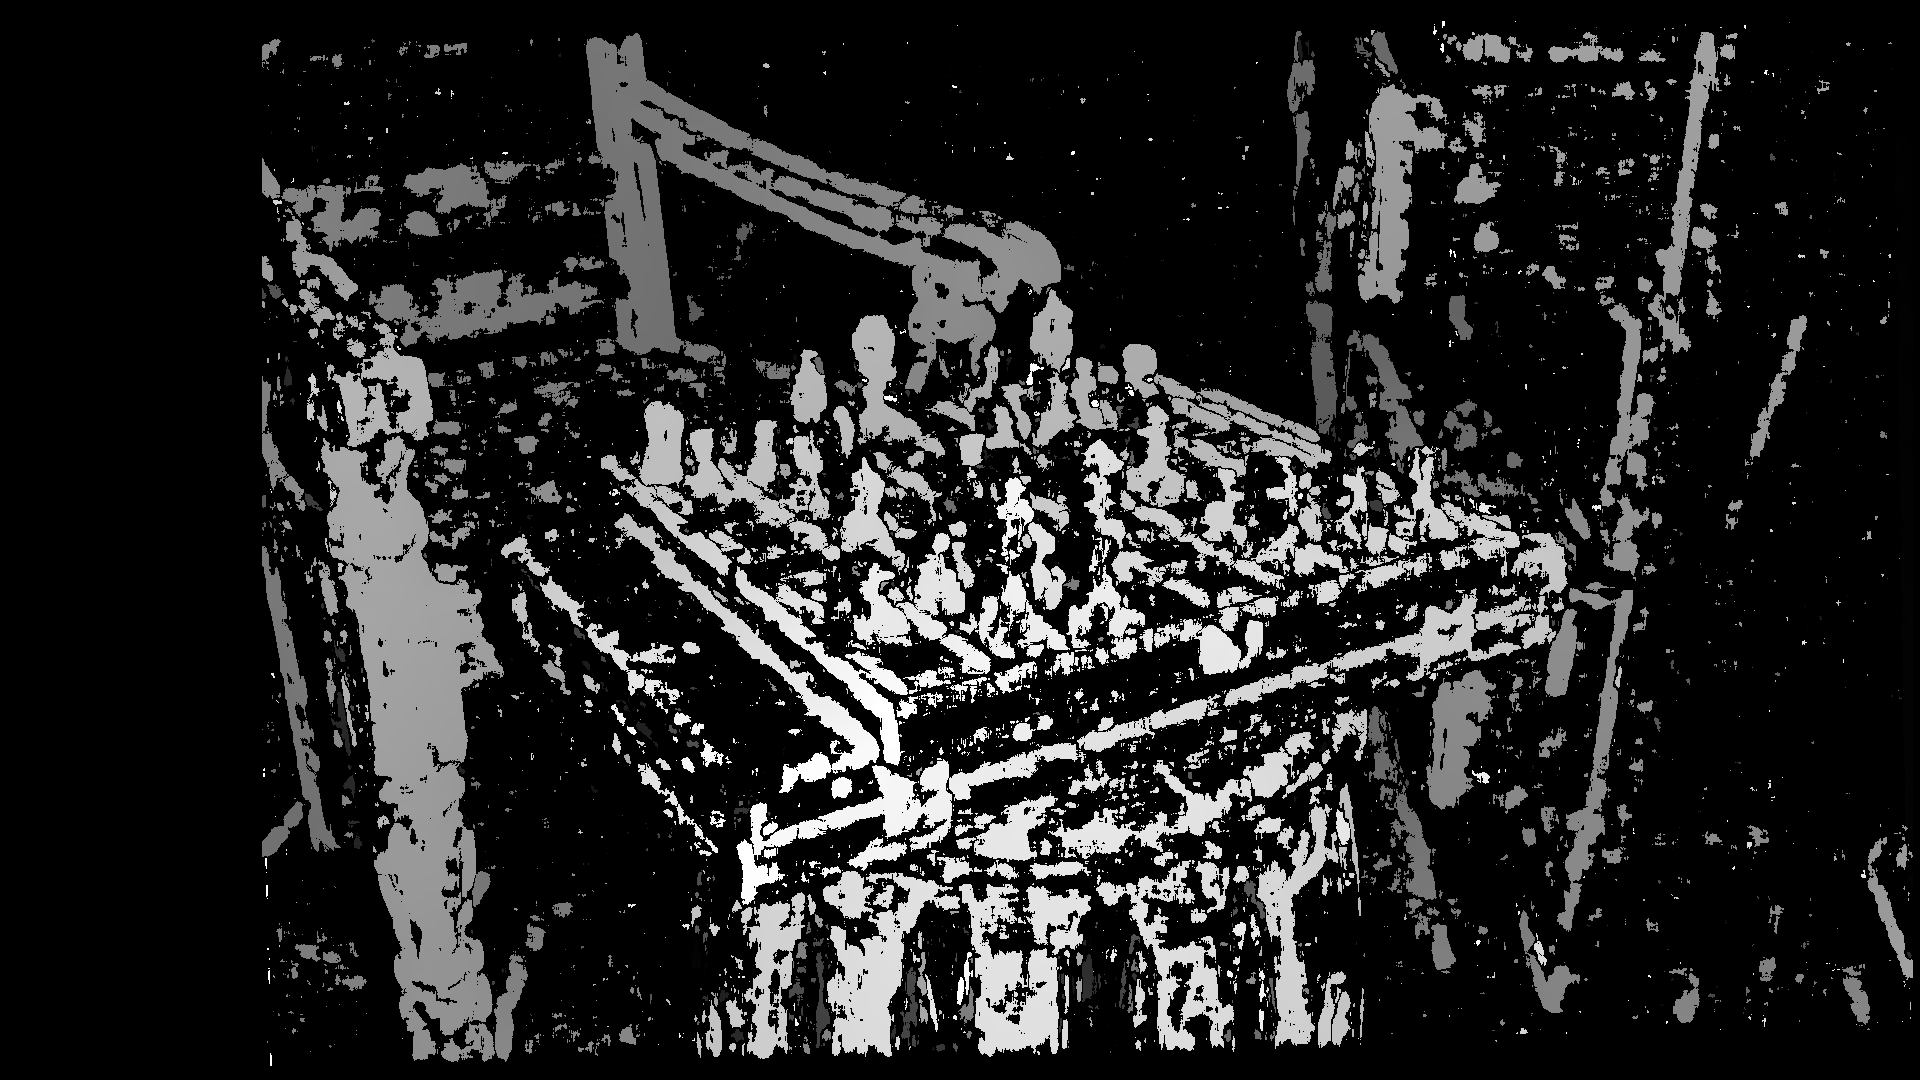
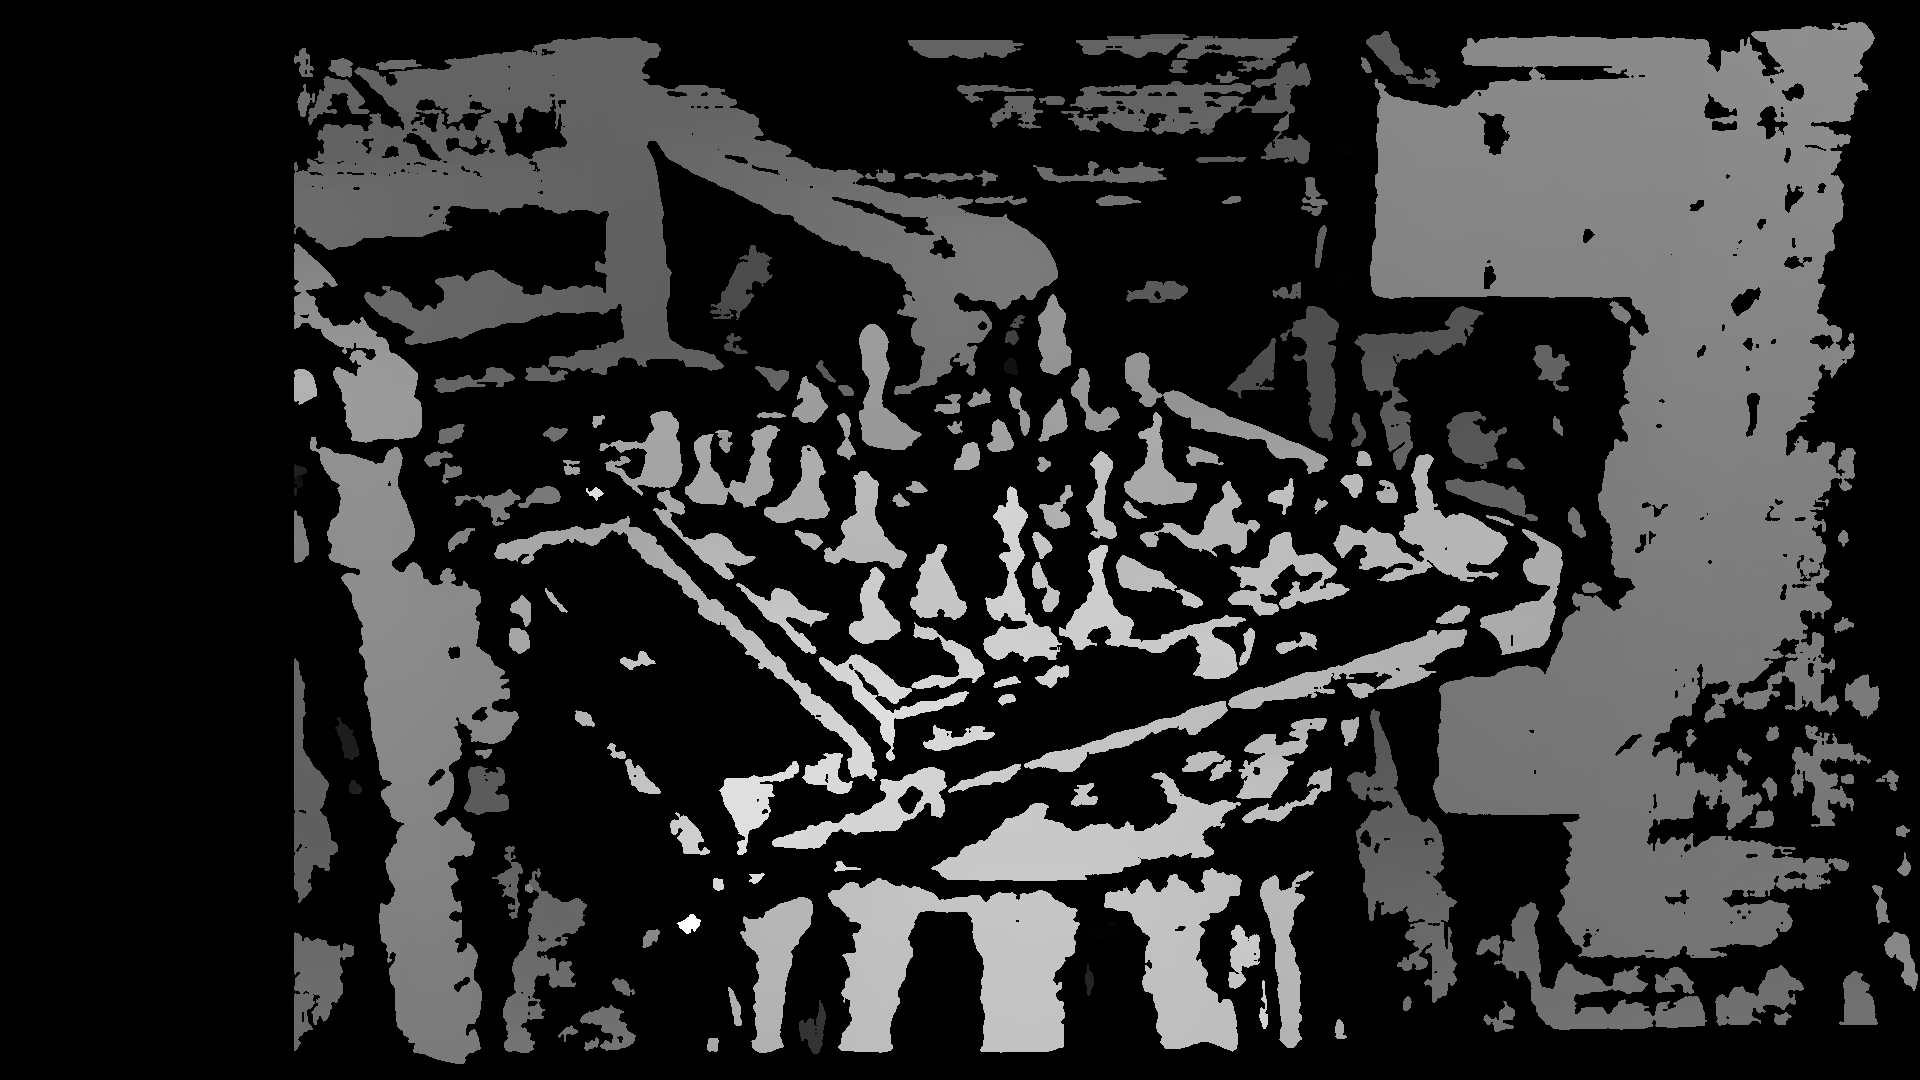
use SGBM to get disparity map

diff --git a/02_3D Object Recognition and Depth Estimation/Depth Estimation from Stereo Images/src/depth_estimation.py b/02_3D Object Recognition and Depth Estimation/Depth Estimation from Stereo Images/src/depth_estimation.py
@@ -1,13 +1,30 @@
 # src/depth_estimation.py
 import cv2
 import numpy as np
-from src.config import NUM_DISPARITIES, BLOCK_SIZE, doffs
+from src.config import MIN_DISPARITY, NUM_DISPARITIES, BLOCK_SIZE, DISPARITY_ALGORITHM
 
 def compute_disparity_map(left_image, right_image):
     """
-    Compute the disparity map from stereo images.
+    Compute the disparity map from stereo images using StereoBM or StereoSGBM.
     """
-    stereo = cv2.StereoBM_create(numDisparities=NUM_DISPARITIES, blockSize=BLOCK_SIZE)
+    if DISPARITY_ALGORITHM == "BM":
+        stereo = cv2.StereoBM_create(numDisparities=NUM_DISPARITIES, blockSize=BLOCK_SIZE)
+    elif DISPARITY_ALGORITHM == "SGBM":
+        stereo = cv2.StereoSGBM_create(
+            minDisparity=MIN_DISPARITY,
+            numDisparities=NUM_DISPARITIES,
+            blockSize=BLOCK_SIZE,
+            P1=8 * 3 * BLOCK_SIZE ** 2,   # Parameter controlling disparity smoothness (small smoothness penalty)
+            P2=32 * 3 * BLOCK_SIZE ** 2,  # Parameter controlling disparity smoothness (large smoothness penalty)
+            disp12MaxDiff=1,
+            uniquenessRatio=10,
+            speckleWindowSize=100,
+            speckleRange=32
+        )
+    else:
+        raise ValueError("Unsupported disparity algorithm specified in config.py. Choose 'BM' or 'SGBM'.")
+
+    # Calculate disparity and normalize
     disparity = stereo.compute(left_image, right_image).astype(np.float32) / 16.0
     return disparity
 

diff --git a/02_3D Object Recognition and Depth Estimation/Depth Estimation from Stereo Images/src/config.py b/02_3D Object Recognition and Depth Estimation/Depth Estimation from Stereo Images/src/config.py
@@ -27,18 +27,16 @@ calibration = load_calibration()
 cam0_matrix = calibration.get("cam0")
 focal_length = None
 if cam0_matrix:
-    # Extract the first element in cam0 matrix, which is the focal length (f)
     match = re.match(r"\[(\d+\.\d+)", cam0_matrix)  
     if match:
         focal_length = float(match.group(1))
 
-# Use default focal length if none found
 focal_length = focal_length if focal_length else 1758.23  # Default from example if missing
-print(focal_length)
-# Baseline in meters (convert from mm)
-baseline = float(calibration.get("baseline", 111.53)) / 1000
+baseline = float(calibration.get("baseline", 111.53)) / 1000  # Convert baseline from mm to meters
+doffs = float(calibration.get("doffs", 0))  # Offset for depth calculation
 
-# Optional parameters
-doffs = float(calibration.get("doffs", 0))  # Offset
-NUM_DISPARITIES = int(calibration.get("ndisp", 290))  # Number of disparities
-BLOCK_SIZE = 15  # Block size for stereo matching (set as per requirements)
+# Disparity Parameters
+DISPARITY_ALGORITHM = "SGBM"  # Choose between "BM" and "SGBM"
+NUM_DISPARITIES = int(calibration.get("ndisp", 288))  # Number of disparities
+MIN_DISPARITY = int(calibration.get("mindisp", 64))  # Number of disparities
+BLOCK_SIZE = 15  # Block size for stereo matching (should be odd)
